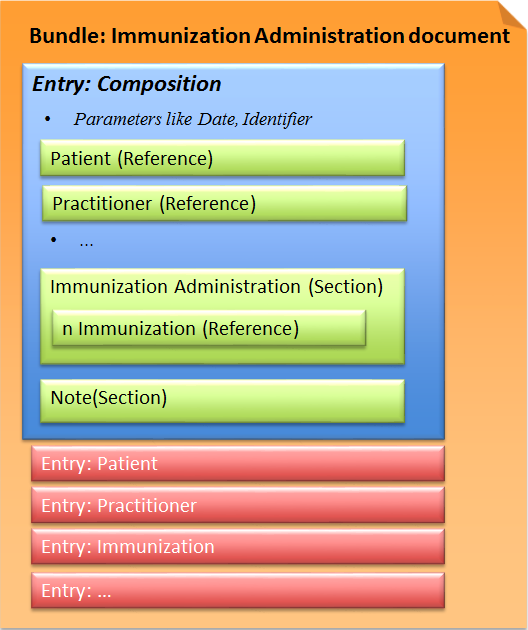
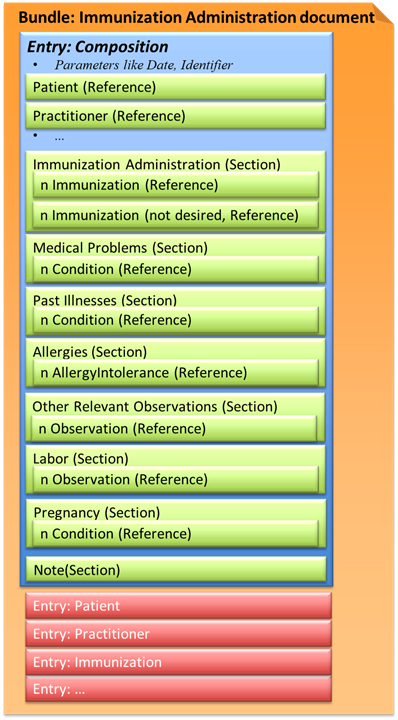
finish refactoring recommendation request/response incl. examples and pics

diff --git a/input/pagecontent/immunization-recommendation-response-message.md b/input/pagecontent/immunization-recommendation-response-message.md
@@ -5,12 +5,15 @@ containing all immunization recommendations which can be made based on the data 
 This exchange format is defined as a message type that corresponds to a Bundle as a FHIR resource. 
 A Bundle has a list of entries. The first entry is the MessageHeader, in which all contained entries are then referenced.
 
--- TODO BILD --
+{% include img.html img="immunization-recommendation-response-message.png" caption="Fig.: Immunization Recommendation Response Message" width="40%" %}
 
 #### Examples
--- TODO EXAMLES --
+* [1.5 ImmunizationRecommendationRequest](Bundle-1-5-ImmunizationRecommendationRequest.html): [XML][JSON](Bundle-1-5-ImmunizationRecommendationRequest.xml), [JSON](Bundle-1-5-ImmunizationRecommendationRequest.json)
+* [2.5 ImmunizationRecommendationRequestMessageHeader](MessageHeader-2-5-ImmunizationRecommendationRequestMessageHeader.html): [XML](MessageHeader-2-5-ImmunizationRecommendationRequestMessageHeader.xml),[JSON](MessageHeader-2-5-ImmunizationRecommendationRequestMessageHeader.json)
+* [3.2 Example Patient (Recommendation)](Patient-3-2-Patient.html): [XML](Patient-3-2-Patient.xml), [JSON](Patient-3-2-Patient.json)
+* [10.3. ImmunizationRecommendation](ImmunizationRecommendation-10-3-ImmunizationRecommendation.html): [XML](ImmunizationRecommendation-10-3-ImmunizationRecommendation.xml), [JSON](ImmunizationRecommendation-10-3-ImmunizationRecommendation.json)
+* [10.4. ImmunizationRecommendation](ImmunizationRecommendation-10-4-ImmunizationRecommendation.html): [XML](ImmunizationRecommendation-10-4-ImmunizationRecommendation.xml), [JSON](ImmunizationRecommendation-10-4-ImmunizationRecommendation.json)
 
-* 3.2 Example Patient (Recommendation): [XML](Patient-3-2-Patient.xml.html), [JSON](Patient-3-2-Patient.json.html)
 
 
 ### Resource profiles
@@ -18,12 +21,4 @@ A Bundle has a list of entries. The first entry is the MessageHeader, in which a
 * [CH VACD Immunization Recommendation Response MessageHeader Profile](StructureDefinition-ch-vacd-recommendation-response-messageheader.html): Definition of the messageheader for the immunization recommendation response.
 * [CH VACD Recommendation Patient Profile](StructureDefinition-ch-vacd-recommendation-patient.html): Definition of the patient for immunization recommendation request and response documents.
 * [CH VACD Recommendation Address Profile](StructureDefinition-ch-vacd-recommendation-address.html): Definition of the address of a patient for immunization recommendation request and response documents.
-* [CH VACD Recommendation Practitioner Profile](StructureDefinition-ch-vacd-recommendation-practitioner.html): Definition of the practitioner for immunization recommendation request and response documents.
-* [CH VACD Recommendation Immunization Profile](StructureDefinition-ch-vacd-recommendation-immunization.html): Definition of the immunization part for immunization recommendation request and response documents.
-* [CH VACD Recommendation Medical Problems Profile](StructureDefinition-ch-vacd-recommendation-medical-problems.html): Definition of the medical problems part for recommendation request and response documents.
-* [CH VACD Recommendation Past Illness Profile](StructureDefinition-ch-vacd-recommendation-pastillnesses.html): Definition of the past illness part for immunization recommendation request and response documents.
-* [CH VACD Recommendation AllergyIntolerances Profile](StructureDefinition-ch-vacd-recommendation-allergyintolerances.html): Definition of the AllergyIntolerance part for immunization recommendation request and response documents.
-* [CH VACD Recommendation Other Relevant Observations Section](StructureDefinition-ch-vacd-recommendation-other-observations.html): Definition of the other relevant observations part for all recommendation request and response documents.
-* [CH VACD Recommendation Laboratory And Serology Profile](StructureDefinition-ch-vacd-recommendation-laboratory-serology.html): Definition of the labor and serology part for immunization recommendation request and response documents.
-* [CH VACD Recommendation Pregnancy Profile](StructureDefinition-ch-vacd-recommendation-pregnancy.html): Definition of the pregnancy part for immunization recommendation request and response documents.
 * [CH VACD Recommendation Immunization Recommendations Profile](StructureDefinition-ch-vacd-recommendation-immunization-recommendations.html): Definition of the immunization recommendation part for immunization recommendation request and response documents.

diff --git a/input/pagecontent/immunization-recommendation-request-message.md b/input/pagecontent/immunization-recommendation-request-message.md
@@ -6,12 +6,14 @@ The patient data MUST be pseudonymized.
 This exchange format is defined as a message type that corresponds to a Bundle as a FHIR resource. 
 A Bundle has a list of entries. The first entry is the MessageHeader, in which all contained entries are then referenced.
 
--- TODO BILD --
+{% include img.html img="immunization-recommendation-request-message.png" caption="Fig.: Immunization Recommendation Request Message" width="40%" %}
+
+
 
 #### Examples
--- TODO EXAMLES --
-
-* 3.2 Example Patient (Recommendation): [XML](Patient-3-2-Patient.xml.html), [JSON](Patient-3-2-Patient.json.html)
+* [1.4 ImmunizationRecommendationRequest](Bundle-1-4-ImmunizationRecommendationRequest.html): [XML](Bundle-1-4-ImmunizationRecommendationRequest.xml), [JSON](Bundle-1-4-ImmunizationRecommendationRequest.json)
+* [2.4 ImmunizationRecommendationRequestMessageHeader](MessageHeader-2-4-ImmunizationRecommendationRequestMessageHeader.html): [XML](MessageHeader-2-4-ImmunizationRecommendationRequestMessageHeader.xml), [JSON](MessageHeader-2-4-ImmunizationRecommendationRequestMessageHeader.json)
+* [3.2 Example Patient (Recommendation)](Patient-3-2-Patient.html): [XML](Patient-3-2-Patient.xml), [JSON](Patient-3-2-Patient.json)
 
  
 ### Resource profiles
